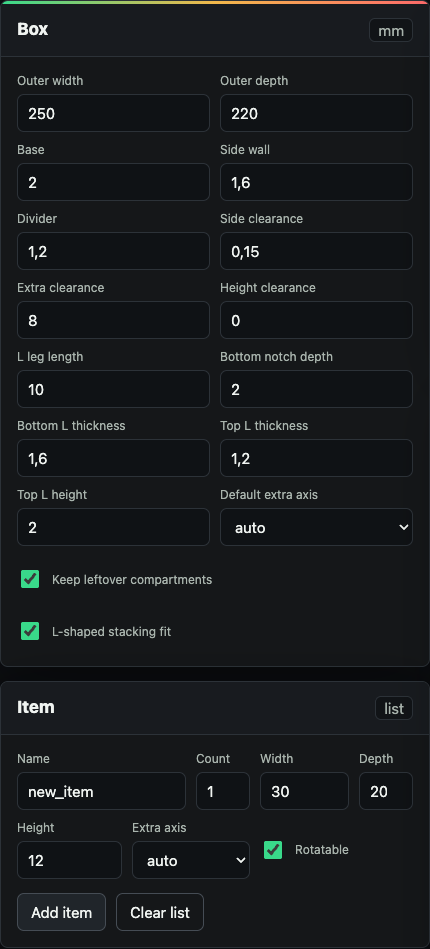
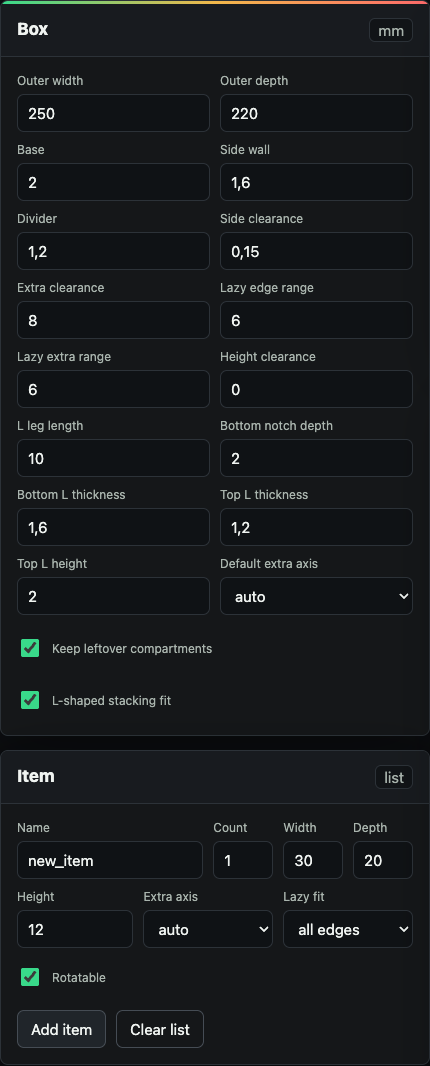
Implement lazy edge fitting

diff --git a/STL-compartment-box-generator.html b/STL-compartment-box-generator.html
@@ -292,7 +292,7 @@
     table {
       width: 100%;
       border-collapse: collapse;
-      min-width: 760px;
+      min-width: 900px;
     }
 
     th,
@@ -496,6 +496,14 @@
                 <input id="extraClearance" type="number" min="0" step="0.1" value="8">
               </div>
               <div class="field">
+                <label for="lazyEdgeRange">Lazy edge range</label>
+                <input id="lazyEdgeRange" type="number" min="0" step="0.1" value="6">
+              </div>
+              <div class="field">
+                <label for="lazyExtraRange">Lazy extra range</label>
+                <input id="lazyExtraRange" type="number" min="0" step="0.1" value="6">
+              </div>
+              <div class="field">
                 <label for="verticalClearance">Height clearance</label>
                 <input id="verticalClearance" type="number" min="0" step="0.1" value="0">
               </div>
@@ -580,6 +588,14 @@
                   <option value="none">none</option>
                 </select>
               </div>
+              <div class="field wide">
+                <label for="itemLazyMode">Lazy fit</label>
+                <select id="itemLazyMode">
+                  <option value="edges">all edges</option>
+                  <option value="extra">extra only</option>
+                  <option value="fixed">off</option>
+                </select>
+              </div>
               <label class="check-row" for="itemRotate">
                 <input id="itemRotate" type="checkbox" checked>
                 Rotatable
@@ -609,6 +625,7 @@
                     <th>Footprint</th>
                     <th>Height</th>
                     <th>Extra</th>
+                    <th>Lazy</th>
                     <th>Rotation</th>
                     <th></th>
                   </tr>
@@ -646,10 +663,10 @@
     };
 
     const sampleItems = [
-      { name: "Item_A", count: 8, width: 32, depth: 18, height: 12, extraAxis: "auto", rotate: true },
-      { name: "Item_B", count: 6, width: 45, depth: 28, height: 18, extraAxis: "depth", rotate: true },
-      { name: "Item_C", count: 4, width: 60, depth: 22, height: 15, extraAxis: "width", rotate: true },
-      { name: "Item_D", count: 2, width: 85, depth: 40, height: 25, extraAxis: "auto", rotate: true }
+      { name: "Item_A", count: 8, width: 32, depth: 18, height: 12, extraAxis: "auto", lazyMode: "edges", rotate: true },
+      { name: "Item_B", count: 6, width: 45, depth: 28, height: 18, extraAxis: "depth", lazyMode: "edges", rotate: true },
+      { name: "Item_C", count: 4, width: 60, depth: 22, height: 15, extraAxis: "width", lazyMode: "extra", rotate: true },
+      { name: "Item_D", count: 2, width: 85, depth: 40, height: 25, extraAxis: "auto", lazyMode: "edges", rotate: true }
     ];
 
     function readNumber(id, label) {
@@ -685,6 +702,8 @@
         dividerThickness: readPositive("dividerThickness", "Divider"),
         sideClearance: readNonNegative("sideClearance", "Side clearance"),
         extraClearance: readNonNegative("extraClearance", "Extra clearance"),
+        lazyEdgeRange: readNonNegative("lazyEdgeRange", "Lazy edge range"),
+        lazyExtraRange: readNonNegative("lazyExtraRange", "Lazy extra range"),
         verticalClearance: readNonNegative("verticalClearance", "Height clearance"),
         defaultExtraAxis: normalizeAxis($("defaultExtraAxis").value),
         addLeftoverCompartments: $("addLeftoverCompartments").checked,
@@ -725,6 +744,27 @@
       return aliases[text];
     }
 
+    function normalizeLazyMode(value) {
+      const text = String(value || "fixed").trim().toLowerCase();
+      const aliases = {
+        off: "fixed",
+        none: "fixed",
+        fixed: "fixed",
+        extra: "extra",
+        extra_only: "extra",
+        "extra only": "extra",
+        lazy_extra: "extra",
+        edges: "edges",
+        all_edges: "edges",
+        "all edges": "edges",
+        lazy_edges: "edges"
+      };
+      if (!aliases[text]) {
+        throw new Error("Unknown lazy fit: " + value);
+      }
+      return aliases[text];
+    }
+
     function setStatus(text, kind) {
       const node = $("status");
       node.className = "status" + (kind ? " " + kind : "");
@@ -754,6 +794,7 @@
         depth: Number(item.depth),
         height: Number(item.height),
         extraAxis: normalizeAxis(item.extraAxis),
+        lazyMode: normalizeLazyMode(item.lazyMode),
         rotate: Boolean(item.rotate)
       };
     }
@@ -768,6 +809,7 @@
         depth: readPositive("itemDepth", "Depth"),
         height: readPositive("itemHeight", "Height"),
         extraAxis: normalizeAxis($("itemExtraAxis").value),
+        lazyMode: normalizeLazyMode($("itemLazyMode").value),
         rotate: $("itemRotate").checked
       };
       state.items.push(item);
@@ -786,6 +828,7 @@
           <td class="num">${fmt(item.width)} x ${fmt(item.depth)} mm</td>
           <td class="num">${fmt(item.height)} mm</td>
           <td><span class="tag">${escapeHtml(axisLabel(item.extraAxis))}</span></td>
+          <td><span class="tag">${escapeHtml(lazyModeLabel(item.lazyMode))}</span></td>
           <td>${item.rotate ? "yes" : "no"}</td>
           <td><button class="danger" type="button" data-remove="${index}">Delete</button></td>
         `;
@@ -823,6 +866,14 @@
       }[axis] || axis;
     }
 
+    function lazyModeLabel(mode) {
+      return {
+        fixed: "off",
+        extra: "extra only",
+        edges: "all edges"
+      }[mode] || mode;
+    }
+
     function extraAxisOptions(axis, width, depth) {
       if (axis === "auto") return ["width", "depth"];
       if (axis === "longer") return [width >= depth ? "width" : "depth"];
@@ -840,9 +891,21 @@
         const addD = axis === "depth" ? cfg.extraClearance : 0;
         const cavityW = instance.width + 2 * cfg.sideClearance + addW;
         const cavityD = instance.depth + 2 * cfg.sideClearance + addD;
-        const orientations = [{ cw: cavityW, cd: cavityD, rotated: false }];
+        const orientations = [{
+          cw: cavityW,
+          cd: cavityD,
+          rotated: false,
+          extraOnWidth: addW > EPS,
+          extraOnDepth: addD > EPS
+        }];
         if (instance.rotate) {
-          orientations.push({ cw: cavityD, cd: cavityW, rotated: true });
+          orientations.push({
+            cw: cavityD,
+            cd: cavityW,
+            rotated: true,
+            extraOnWidth: addD > EPS,
+            extraOnDepth: addW > EPS
+          });
         }
         orientations.forEach((orientation) => {
           const candidate = {
@@ -851,7 +914,10 @@
             moduleWidth: orientation.cw + cfg.dividerThickness,
             moduleDepth: orientation.cd + cfg.dividerThickness,
             rotated: orientation.rotated,
-            extraAxis: axis
+            extraAxis: axis,
+            extraOnWidth: orientation.extraOnWidth,
+            extraOnDepth: orientation.extraOnDepth,
+            lazyMode: normalizeLazyMode(instance.lazyMode)
           };
           const key = [
             Math.round(candidate.cavityWidth * 1000),
@@ -859,7 +925,10 @@
             Math.round(candidate.moduleWidth * 1000),
             Math.round(candidate.moduleDepth * 1000),
             candidate.rotated ? 1 : 0,
-            candidate.extraAxis
+            candidate.extraAxis,
+            candidate.extraOnWidth ? 1 : 0,
+            candidate.extraOnDepth ? 1 : 0,
+            candidate.lazyMode
           ].join(":");
           if (!seen.has(key)) {
             seen.add(key);
@@ -881,6 +950,7 @@
             depth: item.depth,
             height: item.height,
             extraAxis: item.extraAxis,
+            lazyMode: item.lazyMode,
             rotate: item.rotate
           });
         }
@@ -933,21 +1003,53 @@
       return false;
     }
 
-    function findBestPosition(box, candidates) {
+    function canLazyAxis(candidate, axis) {
+      if (candidate.lazyMode === "edges") return true;
+      if (candidate.lazyMode === "extra") return axis === "width" ? candidate.extraOnWidth : candidate.extraOnDepth;
+      return false;
+    }
+
+    function lazyRangeForAxis(candidate, axis, cfg) {
+      if (!canLazyAxis(candidate, axis)) return 0;
+      const isExtraAxis = axis === "width" ? candidate.extraOnWidth : candidate.extraOnDepth;
+      return isExtraAxis ? cfg.lazyExtraRange : cfg.lazyEdgeRange;
+    }
+
+    function fitCandidateToFreeRect(candidate, free, cfg) {
+      const fitted = { ...candidate, lazyWidth: 0, lazyDepth: 0 };
+      const leftoverX = free.w - fitted.moduleWidth;
+      const leftoverY = free.d - fitted.moduleDepth;
+      const lazyWidthRange = lazyRangeForAxis(fitted, "width", cfg);
+      const lazyDepthRange = lazyRangeForAxis(fitted, "depth", cfg);
+      if (leftoverX > EPS && leftoverX <= lazyWidthRange + EPS) {
+        fitted.moduleWidth = free.w;
+        fitted.cavityWidth += leftoverX;
+        fitted.lazyWidth = leftoverX;
+      }
+      if (leftoverY > EPS && leftoverY <= lazyDepthRange + EPS) {
+        fitted.moduleDepth = free.d;
+        fitted.cavityDepth += leftoverY;
+        fitted.lazyDepth = leftoverY;
+      }
+      return fitted;
+    }
+
+    function findBestPosition(box, candidates, cfg) {
       let best = null;
       box.freeRects.forEach((free) => {
         candidates.forEach((candidate) => {
           if (candidate.moduleWidth <= free.w + EPS && candidate.moduleDepth <= free.d + EPS) {
-            const leftoverX = free.w - candidate.moduleWidth;
-            const leftoverY = free.d - candidate.moduleDepth;
+            const fitted = fitCandidateToFreeRect(candidate, free, cfg);
+            const leftoverX = free.w - fitted.moduleWidth;
+            const leftoverY = free.d - fitted.moduleDepth;
             const score = [
-              free.area - candidate.moduleWidth * candidate.moduleDepth,
+              free.area - fitted.moduleWidth * fitted.moduleDepth,
               Math.min(leftoverX, leftoverY),
               Math.max(leftoverX, leftoverY)
             ];
-            const used = rect(free.x, free.y, candidate.moduleWidth, candidate.moduleDepth);
+            const used = rect(free.x, free.y, fitted.moduleWidth, fitted.moduleDepth);
             if (!best || scoreLess(score, best.score)) {
-              best = { score, used, candidate };
+              best = { score, used, candidate: fitted };
             }
           }
         });
@@ -970,6 +1072,9 @@
         itemHeight: instance.height,
         rotated: candidate.rotated,
         extraAxis: candidate.extraAxis,
+        lazyMode: candidate.lazyMode,
+        lazyWidth: candidate.lazyWidth,
+        lazyDepth: candidate.lazyDepth,
         isLeftover: false
       });
       const updated = [];
@@ -1003,7 +1108,7 @@
         let bestBox = null;
         let bestPosition = null;
         packed.forEach((box) => {
-          const position = findBestPosition(box, possible);
+          const position = findBestPosition(box, possible, cfg);
           if (position && (!bestPosition || scoreLess(position.score, bestPosition.score))) {
             bestBox = box;
             bestPosition = position;
@@ -1017,7 +1122,7 @@
             placements: []
           };
           packed.push(bestBox);
-          bestPosition = findBestPosition(bestBox, possible);
+          bestPosition = findBestPosition(bestBox, possible, cfg);
           if (!bestPosition) {
             throw new Error(instance.name + " cannot be placed in a new box.");
           }
@@ -1310,7 +1415,10 @@
         cavity_depth: round3(placement.cavityDepth),
         item_height: round3(placement.itemHeight),
         rotated: placement.rotated,
-        extra_axis: placement.extraAxis
+        extra_axis: placement.extraAxis,
+        lazy_mode: placement.lazyMode || "fixed",
+        lazy_width: round3(placement.lazyWidth || 0),
+        lazy_depth: round3(placement.lazyDepth || 0)
       };
     }
 
@@ -1350,6 +1458,8 @@
             divider_thickness: cfg.dividerThickness,
             side_clearance: cfg.sideClearance,
             extra_clearance: cfg.extraClearance,
+            lazy_edge_range: cfg.lazyEdgeRange,
+            lazy_extra_range: cfg.lazyExtraRange,
             default_extra_axis: cfg.defaultExtraAxis,
             vertical_clearance: cfg.verticalClearance,
             add_leftover_compartments: cfg.addLeftoverCompartments,

diff --git a/README.md b/README.md
@@ -19,7 +19,7 @@ Click **Generate STL** and check the generated layout before printing.
 - Item-first: enter counts and dimensions instead of drawing dividers by hand.
 - Fast output: one printable STL per generated box.
 - Built-in checks: layout SVG and JSON placement summary.
-- Practical options: rotation, clearances, leftover compartments, and L-shaped stacking fit.
+- Practical options: rotation, clearances, separate lazy edge ranges, leftover compartments, and L-shaped stacking fit.
 - Local: everything runs in the browser from a single HTML file.
 
 ## Exports